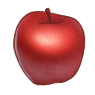
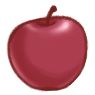
added new apple sprites

diff --git a/Assets/Scripts/InteractiveObjects/Apple.cs b/Assets/Scripts/InteractiveObjects/Apple.cs
@@ -33,7 +33,7 @@ public class Apple : InteractiveObject
     private IEnumerator FallCoroutine()
     {
         _rb2d.isKinematic = false;
-        yield return new WaitForSeconds(1f);
+        yield return new WaitForSeconds(0.7f);
         _sprite.sortingOrder = _sortOrdEnd;
         _interactive = true;
     }
